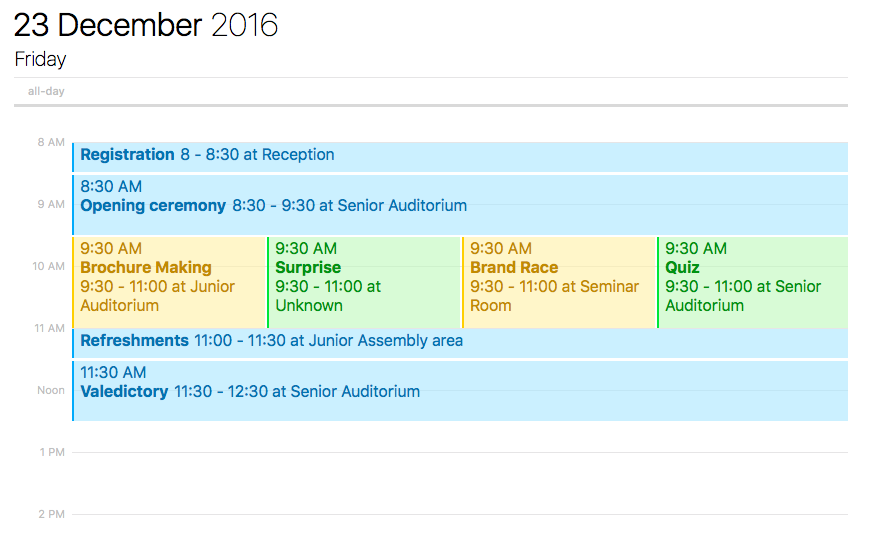
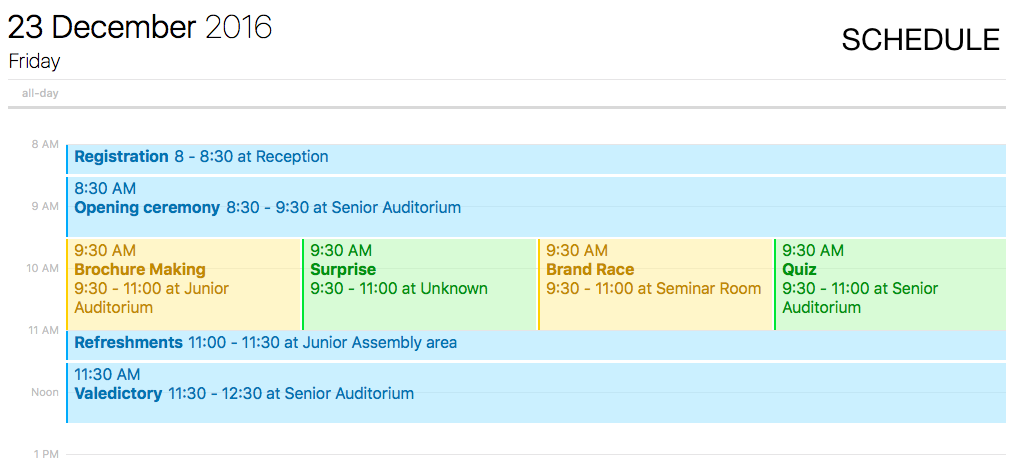
Added schedule
Added schedule to main page

diff --git a/emporio/index.html b/emporio/index.html
@@ -138,6 +138,8 @@
 							</div>
 						</div>
 					</div>
+					<br><br><br>
+					<center><img src="img/iphone-bg.png" style="width: 1017px;box-shadow: 0 4px 8px 0 rgba(0, 0, 0, 0.2), 0 6px 20px 0 rgba(0, 0, 0, 0.19);text-align: center;" class="animated fadeInUp delay-02s"></center>
 				</section>
 				<section class="swag text-center">
 					<div class="container">
@@ -160,7 +162,7 @@
 							<div class="col-md-4">
 								<div class="light-box box-hover">
 									<h2><i class="fa fa-mobile"></i><span>Phone</span></h2>
-									<p>Ms. Shivani: 987654321<br>Vedansh Mishra: 123456789</p>
+									<p>Ms. Shivani: 0987654321<br>Mr. Sandipan: 1234567890</p>
 								</div>
 							</div>
 							<a href="https://goo.gl/maps/qdhPd4vzVoq" target="_blank">
